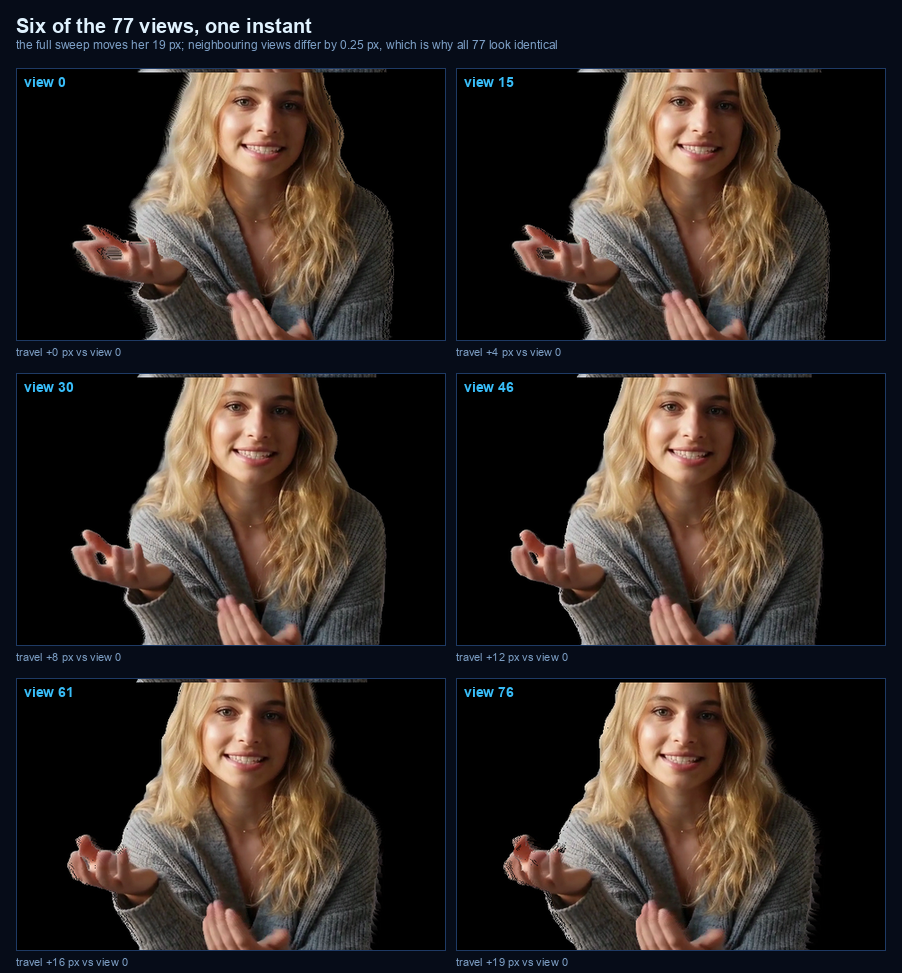
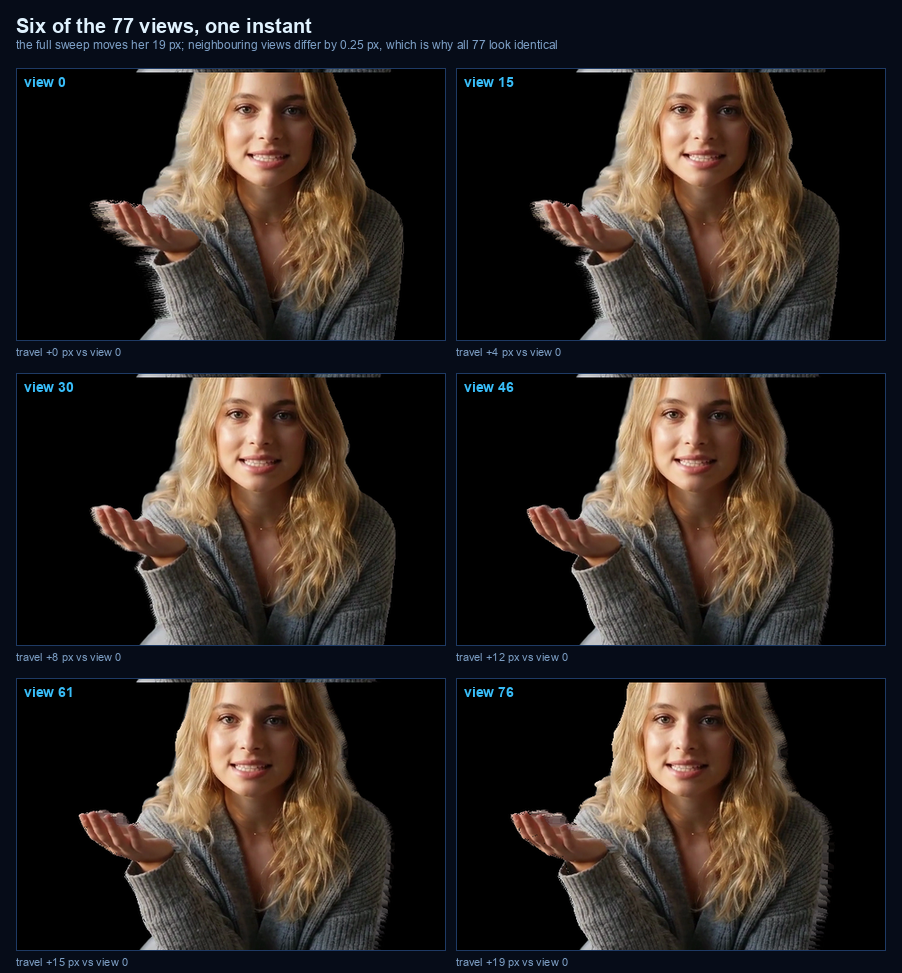
Rebuild the quilt from t=63, the instant the rest of the strip uses
The journey strip's header states every panel is the same frame. Panel 6 was not: the
published quilt was built from a different moment entirely, so the one claim the asset
exists to make was false. Reported by eye, then confirmed by scanning the clip for the
frame the quilt's centre view actually matched.

The first scan named the wrong frame, because it compared a landscape 480x305 tile
against a square 1080 frame and counted the aspect difference as drift. Cropping the
candidate the same way build_quilt does moved the answer. The conclusion survived, the
number did not, which is the usual order.

Rebuilt with quilt.py's own CLI defaults rather than guessed parameters. Two checks
before shipping it: the centre view now matches t=63 to within the scan's 2-second
resolution, and the sweep is still 76 of 76 monotone across 0 to 19 px, so the rebuild
did not break the physics it exists to show.

The hero's middle cell also held a landscape tile in a 30 percent column beside two
square clips, so it read short as well as narrow. The views are centre-cropped square
and the three columns are even.

Changed region(s): [[0.0621, 0.0617, 0.4656, 0.9866], [0.5588, 0.0617, 0.9313, 0.9866]]

diff --git a/README.md b/README.md
@@ -17,15 +17,15 @@
 
 <table>
   <tr>
-    <td width="36%" align="center">
+    <td width="34%" align="center">
       <img src="assets/parallax-amplified.gif" alt="The presenter under a swaying virtual camera, nearer pixels travelling further than far ones, amplified four times" width="100%"><br>
       <sub><b>Depth, on a flat screen.</b> A virtual camera sways across the inferred depth map, near pixels travelling further than far ones. <b>This clip is exaggerated 4x and says so on the frame.</b> The real sweep across all 77 views moves her <b>19 px</b> inside a 480 px tile, about 4 percent, which is honest and nearly invisible at this size. The amber tick is fixed, because without something stationary the eye tracks her and cancels the very displacement the clip exists to show.</sub>
     </td>
-    <td width="30%" align="center">
+    <td width="33%" align="center">
       <img src="assets/views-sweep.gif" alt="Six of the 77 camera views of one instant, cycled" width="100%"><br>
       <sub><b>Six of the 77 views, one instant.</b> Spread across the whole sweep rather than neighbours, because adjacent views differ by <b>0.25 px</b> and a block of them reads as one photo repeated. Every frame of the clip carries its own 77. <b><a href="assets/quilt-video.mp4">&#9654; full quilt video</a></b></sub>
     </td>
-    <td width="34%" align="center">
+    <td width="33%" align="center">
       <img src="assets/glass-feed-demo.gif" alt="The presenter explaining the pipeline that renders her" width="100%"><br>
       <sub><b>And she explains her own pipeline.</b> One pass, start to finish. GIFs are mute and the voice is half the point: <b><a href="assets/glass-feed-demo.mp4">&#9654; watch with sound (2:49)</a></b></sub>
     </td>
